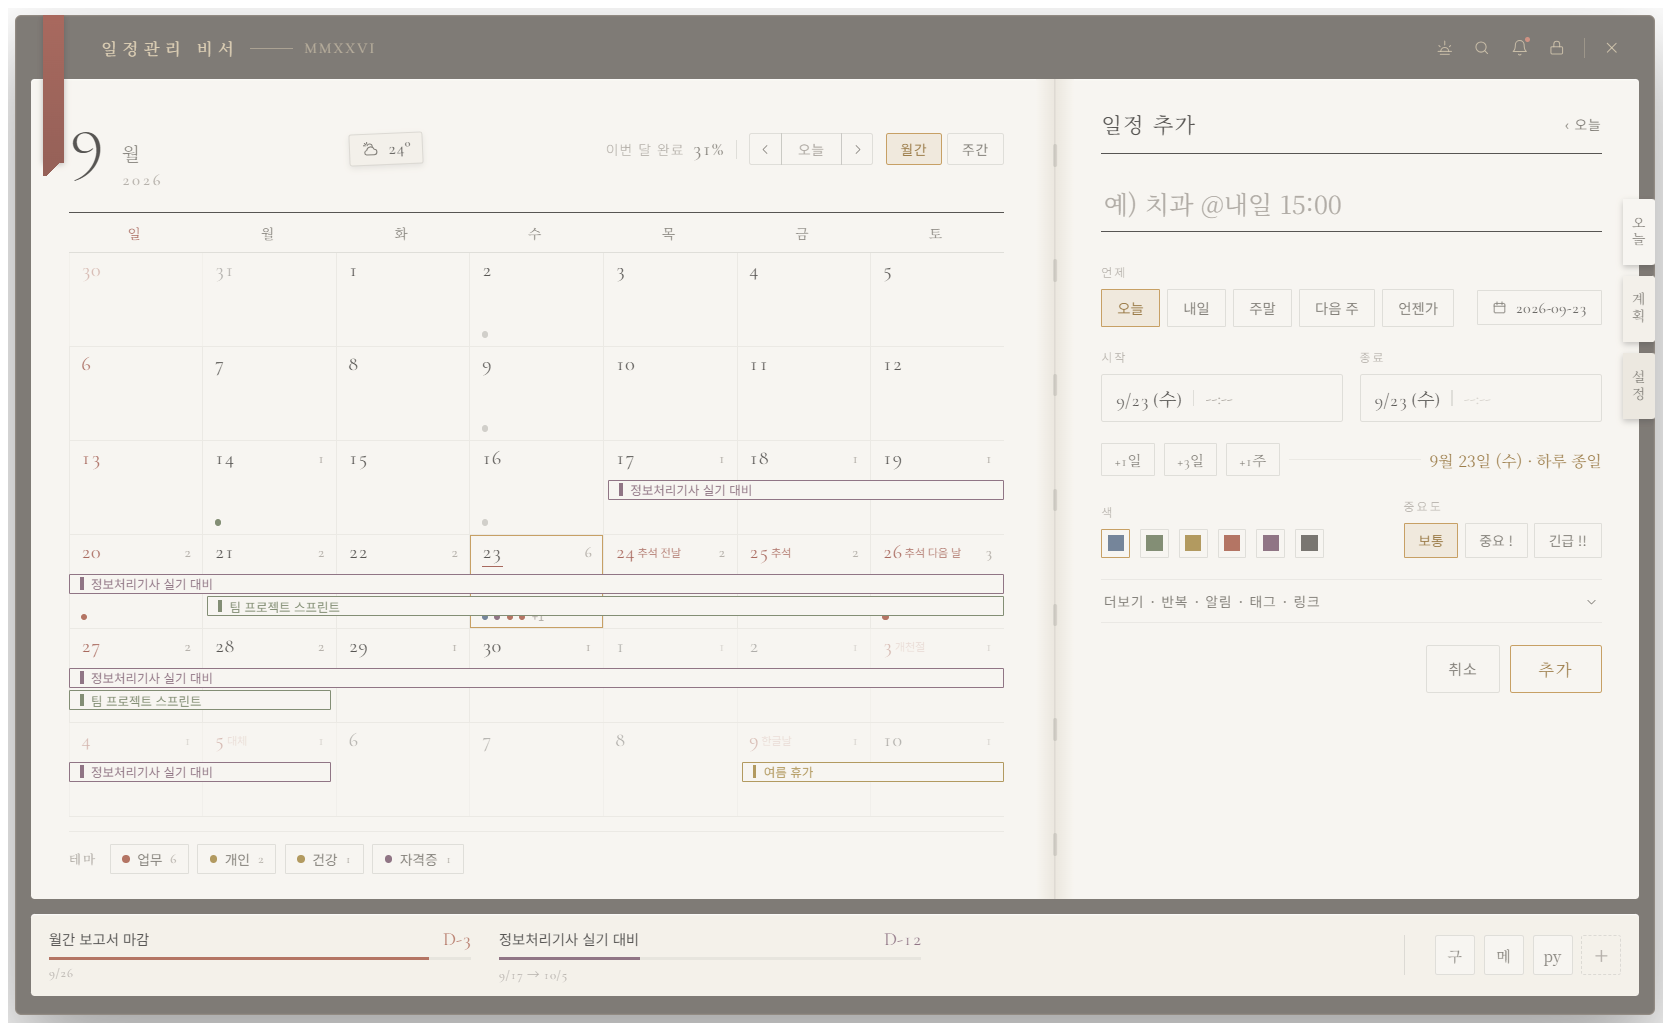
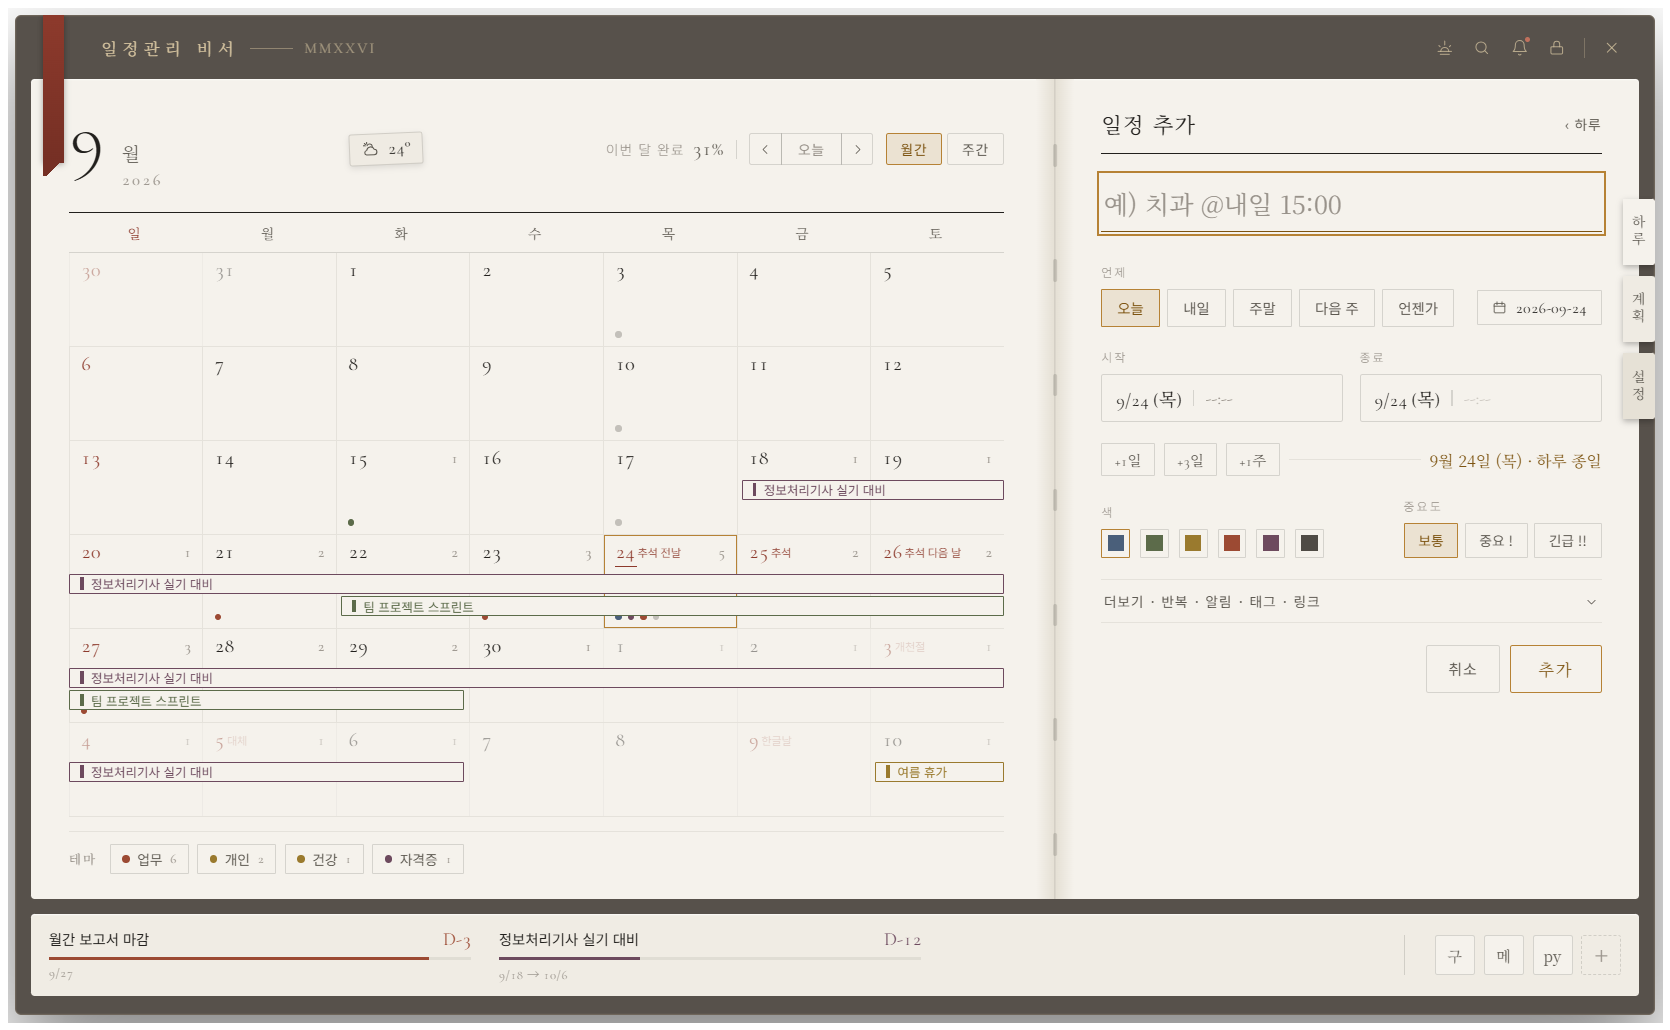
책갈피 이름 — 하루 · 1.4.1
탭 이름이 그 면이 하는 일을 말하게 했다. '오늘' 은 이름이 좁았다 —
그 면은 오늘만 아니라 달력에서 고른 어느 날이든 보여 준다.

- 오늘 → 하루. 계획 · 설정은 그대로(이미 하는 일 그대로의 이름이다).
- 탭마다 title 을 달아 무엇이 열리는지 커서만 올려도 보이게 했다
  (하루: 그날의 시간표와 할 일 / 계획: 주 · 달 목표와 습관 · 돌아보기).
- 추가 · 상세에서 돌아가는 단추도 '‹ 하루'.
- README · 주석의 '오늘 화면' 을 '하루 화면' 으로, 스크린샷 11장 재생성.

diff --git a/src/renderer/todo/todo.js b/src/renderer/todo/todo.js
@@ -3,7 +3,7 @@
 // 외부 라이브러리 없음. 순수 ES 모듈 + DOM API. 사용자 입력은 항상 textContent 로만 넣는다.
 //
 // 오른쪽 면은 시안(핸드오프)의 화면을 갈아 끼운다 — 한 번에 하나만 보인다.
-//   오늘      날짜 머리 · 비서의 한 줄 · 지난 일 · 시간표(종일 띠 + 스트립/압축) · 언젠가 · 한 줄 기록
+//   하루      날짜 머리 · 비서의 한 줄 · 지난 일 · 시간표(종일 띠 + 스트립/압축) · 언젠가 · 한 줄 기록
 //   계획      plan.js — 주 · 달 목표 (책갈피 '계획')
 //   일정 추가  compose.js (일정 · 루틴)
 //   항목 상세  detail.js
@@ -354,7 +354,7 @@ export function createTodoPanel({ root, store }) {
 
   // 책갈피 탭 · 표지 버튼이 부르는 것들. 탭은 화면을 새로 만들지 않고 이미 있는 입구를 연다.
   document.addEventListener('app:close-compose', () => compose.close());
-  // 책갈피 '오늘' · '계획' — 떠 있던 추가 · 상세 화면은 걷고 그 면으로
+  // 책갈피 '하루' · '계획' — 떠 있던 추가 · 상세 화면은 걷고 그 면으로
   document.addEventListener('app:today', () => {
     planOpen = false;
     compose.close();
@@ -1097,7 +1097,7 @@ export function createTodoPanel({ root, store }) {
     plan.el.hidden = screen !== 'plan';
     detail.el.hidden = screen !== 'detail';
     // 뒤로 가는 단추는 돌아갈 면의 이름을 단다
-    const back = tab === 'plan' ? '‹ 계획' : '‹ 오늘';
+    const back = tab === 'plan' ? '‹ 계획' : '‹ 하루';
     detail.setBack(back);
     compose.setBack(back);
     // 계획 화면에서 주를 짜는 동안 달력이 그 주를 금박 테두리로 짚는다

diff --git a/src/renderer/app.js b/src/renderer/app.js
@@ -696,7 +696,9 @@ function checkDayChange() {
 
 // ---------------------------------------------------------------- 책갈피 탭
 //
-// 오른쪽 면 바깥에 붙어 면을 갈아 끼운다(시안) — 오늘 · 계획 · 설정.
+// 오른쪽 면 바깥에 붙어 면을 갈아 끼운다(시안) — 하루 · 계획 · 설정.
+// 이름은 그 면이 하는 일이다: '하루' 는 고른 날의 시간표와 할 일(오늘만이 아니다),
+// '계획' 은 주 · 달 단위로 짜고 돌아보는 자리.
 // 탭 하나가 면 하나다. 같은 면을 여는 단추를 다른 곳에 또 두지 않는다
 // (설정 톱니 · 루틴 탭 · 브리핑 탭은 걷었다. 브리핑은 표지의 해돋이가 연다).
 // 상세 · 추가 화면은 그 면 안의 한 장이라 탭은 그 면을 켠 채로 둔다.
@@ -1131,7 +1133,7 @@ function renderSettings() {
     opt('끔', s[key] === false, set(key, false)),
   ]);
 
-  // 설정은 책갈피 면이다 — 돌아가는 단추 대신 옆의 '오늘' 탭(또는 Esc)
+  // 설정은 책갈피 면이다 — 돌아가는 단추 대신 옆의 '하루' 탭(또는 Esc)
   const screen = el('div', 'scr set-screen');
   const head = el('div', 'scr-head');
   head.append(el('span', 'scr-head__title', '설정'));

diff --git a/src/renderer/dev.html b/src/renderer/dev.html
@@ -76,9 +76,9 @@
 
         <!-- 책갈피 탭 — 오른쪽 면 바깥으로 삐져나온다 -->
         <div class="tabs">
-          <button id="tab-main" class="tab is-on" type="button">오늘</button>
-          <button id="tab-plan" class="tab" type="button">계획</button>
-          <button id="tab-settings" class="tab tab--settings" type="button">설정</button>
+          <button id="tab-main" class="tab is-on" type="button" title="그날의 시간표와 할 일">하루</button>
+          <button id="tab-plan" class="tab" type="button" title="주 · 달 목표와 습관 · 돌아보기">계획</button>
+          <button id="tab-settings" class="tab tab--settings" type="button" title="설정">설정</button>
         </div>
       </main>
 

diff --git a/src/renderer/index.html b/src/renderer/index.html
@@ -51,9 +51,9 @@
 
       <!-- 책갈피 탭 — 오른쪽 면 바깥으로 삐져나온다 -->
       <div class="tabs">
-        <button id="tab-main" class="tab is-on" type="button">오늘</button>
-        <button id="tab-plan" class="tab" type="button">계획</button>
-        <button id="tab-settings" class="tab tab--settings" type="button">설정</button>
+        <button id="tab-main" class="tab is-on" type="button" title="그날의 시간표와 할 일">하루</button>
+        <button id="tab-plan" class="tab" type="button" title="주 · 달 목표와 습관 · 돌아보기">계획</button>
+        <button id="tab-settings" class="tab tab--settings" type="button" title="설정">설정</button>
       </div>
     </main>
 

diff --git a/src/renderer/todo/ui.js b/src/renderer/todo/ui.js
@@ -34,11 +34,11 @@ export function monthDay(key) {
   return `${d.getMonth() + 1}/${d.getDate()}`;
 }
 
-/** 화면 머리 — 제목 + 돌아갈 면('‹ 오늘' · '‹ 계획'). Esc 도 같은 곳으로 돌아간다. */
+/** 화면 머리 — 제목 + 돌아갈 면('‹ 하루' · '‹ 계획'). Esc 도 같은 곳으로 돌아간다. */
 export function screenHead(title, onBack) {
   const el = h('div', 'scr-head');
   const titleEl = h('span', 'scr-head__title', title);
-  const back = h('button', 'scr-head__back', '‹ 오늘');
+  const back = h('button', 'scr-head__back', '‹ 하루');
   back.type = 'button';
   back.addEventListener('click', () => onBack?.());
   el.append(titleEl, back);

diff --git a/README.md b/README.md
@@ -16,10 +16,10 @@ Electron + 순수 ES 모듈. **빌드 스텝이 없다** — 코드를 고치고
 펼쳐 놓은 다이어리 한 권이다. **왼쪽 면은 달력**(기간 일정이 주 행을 가로지르는 막대),
 **오른쪽 면은 고른 날의 기록면**, 아래 리본에는 D-Day 와 퀵 런처가 얹힌다.
 오른쪽 면은 화면을 갈아 끼운다. 면 바깥으로 삐져나온 **책갈피 탭**이 면을 고른다 —
-**오늘** · **계획**(주 · 달 목표) · **설정**. 일정 추가 · 항목 상세는 그 면 안의 한 장이고,
-닫으면 열었던 면으로 돌아간다(`‹ 오늘` · `‹ 계획`).
+**하루**(고른 날의 시간표와 할 일) · **계획**(주 · 달 목표) · **설정**. 탭 이름은 그 면이 하는 일이다.
+일정 추가 · 항목 상세는 그 면 안의 한 장이고, 닫으면 열었던 면으로 돌아간다(`‹ 하루` · `‹ 계획`).
 
-오늘 화면은 위에서부터 **날짜 머리**(`＋ 루틴` `＋ 일정 추가`) → **비서의 한 줄** →
+하루 화면은 위에서부터 **날짜 머리**(`＋ 루틴` `＋ 일정 추가`) → **비서의 한 줄** →
 **지난 일** → **시간표**(종일 띠 + 스트립/압축) → **언젠가** → **한 줄 기록** 순서다.
 기한이 지났는데 안 끝난 일은 고른 날짜와 무관하게 `지난 일` 로 올라오고,
 `오늘로 당기기` 한 번이면 전부 오늘로 옮겨진다(되돌리기 한 번으로 취소).
@@ -54,7 +54,7 @@ Electron + 순수 ES 모듈. **빌드 스텝이 없다** — 코드를 고치고
 **목표**로 적어 두었다가 나중에 요일에 놓는다.
 
 - **주간** — 목표 목록 + 한 주 일곱 날 + 습관표. 목표를 요일 줄(또는 왼쪽 달력의 날짜 칸)로 끌어 놓으면
-  그날의 일정이 되고, 목표 줄에는 놓인 요일(`수 23`)이 붙는다. 요일 줄을 누르면 그날의 오늘 화면으로.
+  그날의 일정이 되고, 목표 줄에는 놓인 요일(`수 23`)이 붙는다. 요일 줄을 누르면 그날의 하루 화면으로.
   요일 줄 오른쪽의 **얇은 막대는 그날 잡힌 시간**이다(여덟 시간을 넘으면 인주색) — 빈 날이 보이니
   목표를 거기로 끌게 된다.
 - **습관표** — 루틴 × 요일 격자. 한 날은 안료 점, 안 한 날은 빈 동그라미, 하기로 하지 않은 날은 점 하나.
@@ -98,7 +98,7 @@ Electron + 순수 ES 모듈. **빌드 스텝이 없다** — 코드를 고치고
 
 ### 한 줄 기록 — 오늘이 어땠는지
 
-오늘 화면 맨 아래 `한 줄`. 고른 날짜에 한 줄이 붙고, 아래로 최근에 적어 둔 줄이 쌓인다
+하루 화면 맨 아래 `한 줄`. 고른 날짜에 한 줄이 붙고, 아래로 최근에 적어 둔 줄이 쌓인다
 (`9/22 (화)  보고서 초안 끝. 저녁엔 걷기.`). 줄을 누르면 그날로 간다.
 
 일정은 '할 일'을 적지만 지나고 나서 남는 건 그날이 어땠는지다. 일정과 섞지 않고
@@ -163,7 +163,7 @@ Electron + 순수 ES 모듈. **빌드 스텝이 없다** — 코드를 고치고
 - 날짜를 **우클릭**하면 그 자리에서 바로 일정을 만든다(당일 / 3일 / 1주).
 - 키보드: `←→` ±1일 · `↑↓` ±1주 · `PageUp/Down` ±1달 · `T` 오늘.
 
-### 오늘 화면 (오른쪽 면)
+### 하루 화면 (오른쪽 면)
 - **날짜 머리** — `9월 22일 화요일 [오늘]`. 일정을 만드는 단추 `＋ 일정 추가` 가 날짜 바로 옆에
   하나 있다(단축키 `N`). 시간표 · 종일 띠 · 언젠가에는 추가 단추를 따로 두지 않는다.
 - **비서의 한 줄** — `밀린 일 2건부터 치우시면 오늘 7건은 넉넉합니다. 다음 일정은 18:30 치과 예약.`
@@ -489,7 +489,7 @@ src/
    ├─ styles/tokens.css     핸드오프 디자인 토큰 (원본 그대로)
    ├─ styles/base.css       셸 — 표지 · 펼침면 · 책갈피 탭 · 설정 · 모달 · 다크 테마
    ├─ calendar/             월 뷰 + 장기 계획 막대
-   ├─ todo/todo.js          오른쪽 면 — 오늘 화면과 화면 전환(오늘 · 계획 · 추가 · 상세)
+   ├─ todo/todo.js          오른쪽 면 — 하루 화면과 화면 전환(하루 · 계획 · 추가 · 상세)
    ├─ todo/timetable.js     시간표 (종일 띠 · 스트립 · 압축 · 자세한 창)
    ├─ todo/compose.js       일정 추가 · 루틴 화면 (+ 한 줄 문법 해석 parse.js)
    ├─ todo/plan.js          계획 — 주 · 달 목표 · 습관표 · 한 달 결산 · 돌아보기
